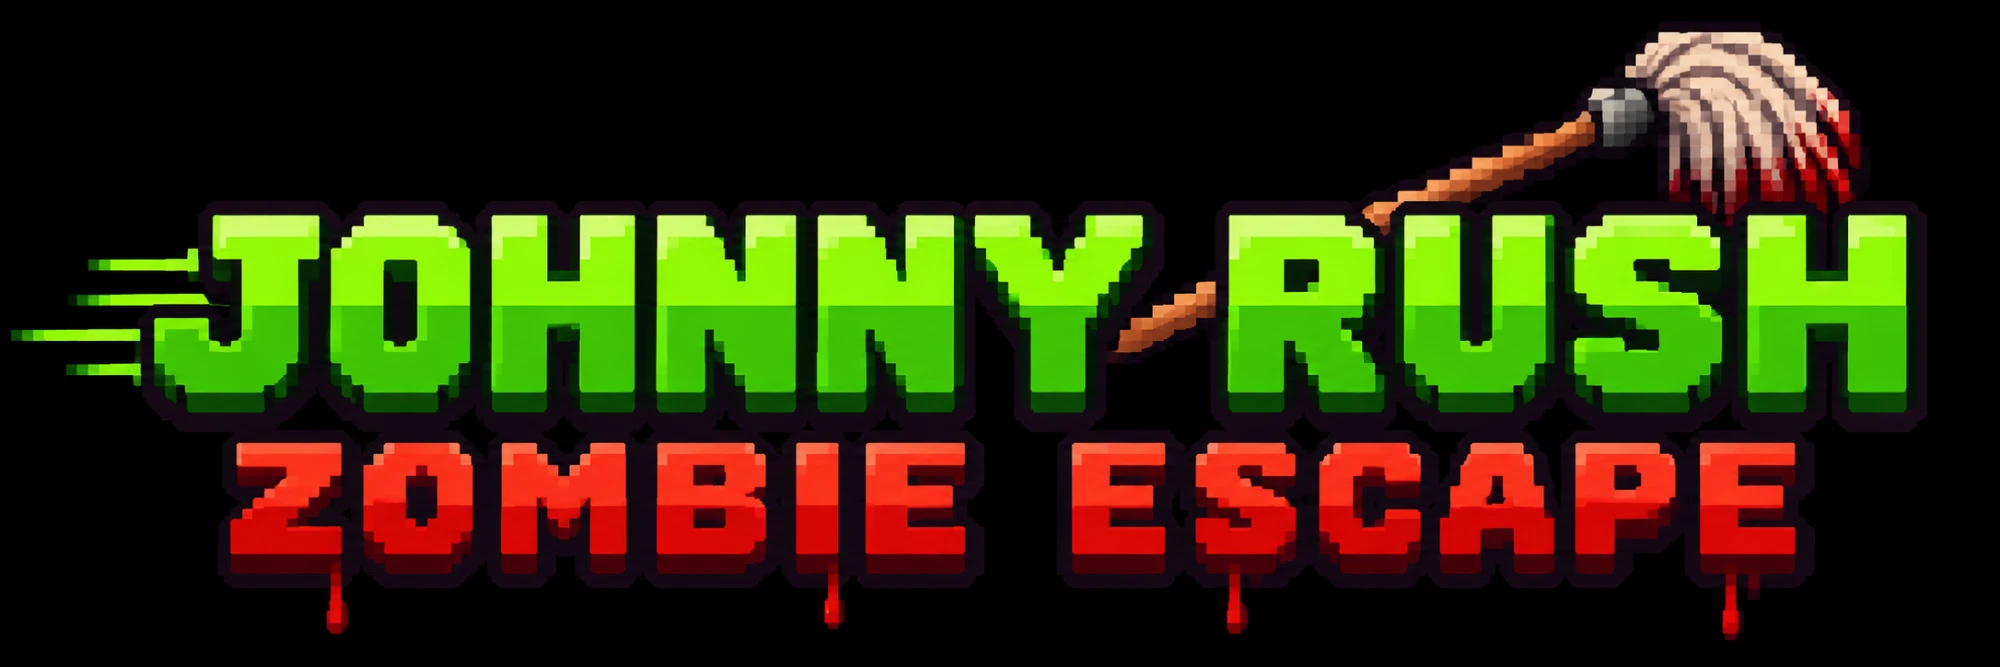
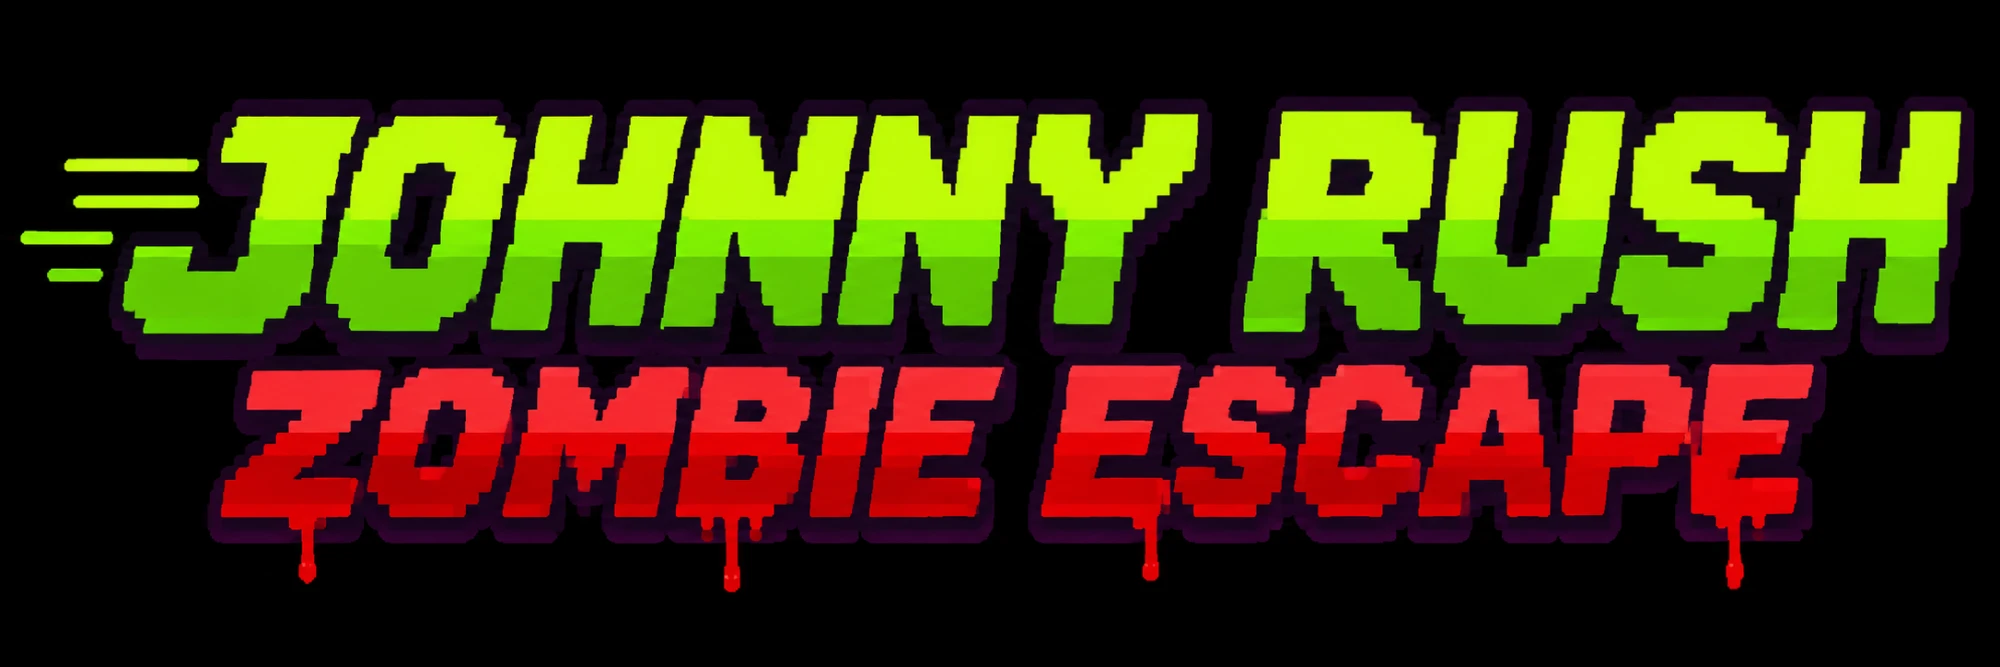
Menú de inicio: título nuevo de GPT sin la fregona (JOHNNY RUSH en verde con líneas de velocidad, ZOMBIE ESCAPE en rojo con gotas de sangre). Reducido como los muebles con py tools/menu_gpt.py. Prueba: --captura --idioma (captura-menu.png)

diff --git a/tools/menu_gpt.py b/tools/menu_gpt.py
@@ -2,7 +2,7 @@
 # premultiplicado, tools/muebles_gpt.py):
 #   assets/sources/menu-fondo-gpt.webp  → assets/ui/menu-fondo.png (480 × 320): el portal de noche con Johnny de espaldas;
 #                                         en el menú se ve ×2 (2 unidades por píxel), cubriendo toda la pantalla
-#   assets/sources/titulo-gpt.webp      → assets/ui/titulo.png (300 × 100): JOHNNY RUSH / ZOMBIE ESCAPE con la fregona;
+#   assets/sources/titulo-gpt.webp      → assets/ui/titulo.png (300 × 100): JOHNNY RUSH / ZOMBIE ESCAPE (sin fregona, 8 nov);
 #                                         se le quita el negro puro que se llega desde el borde y se ve ×2
 #   py tools/menu_gpt.py   (y luego Godot --headless --path . --import)
 from collections import deque
